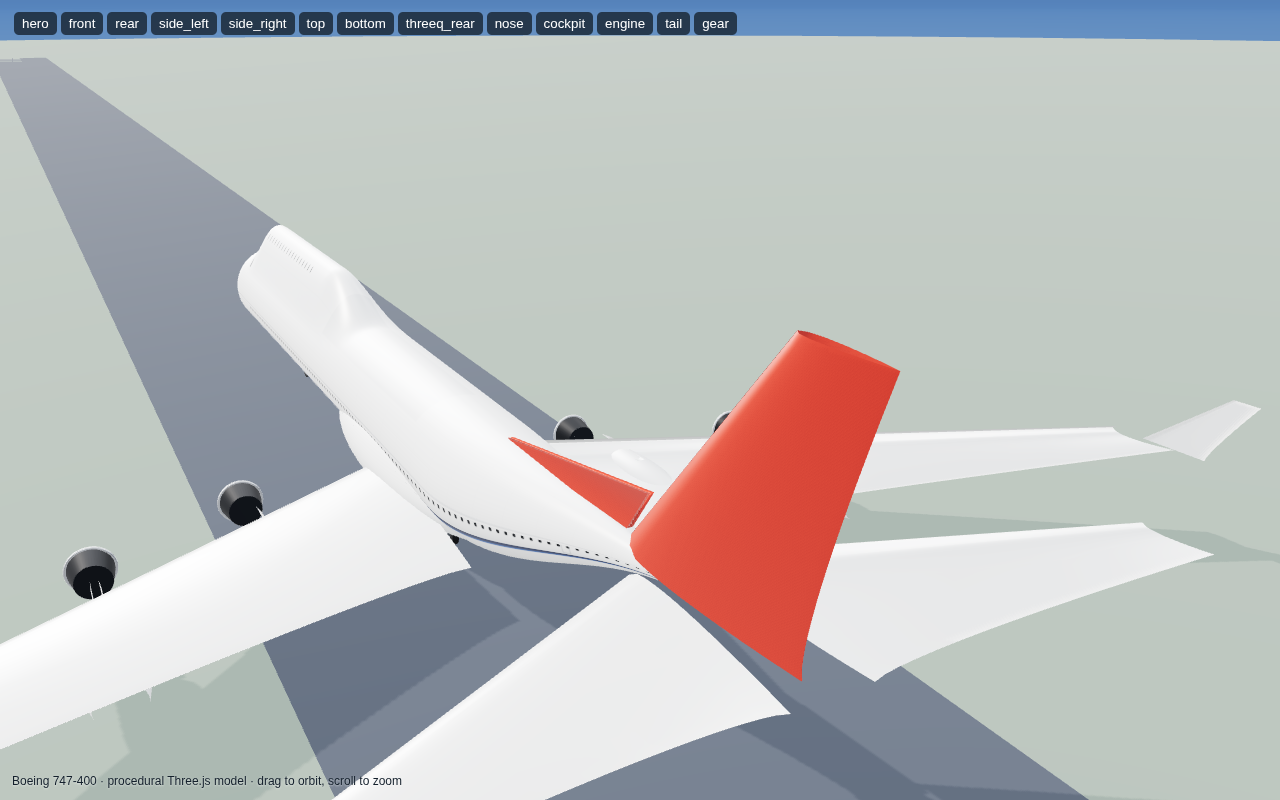
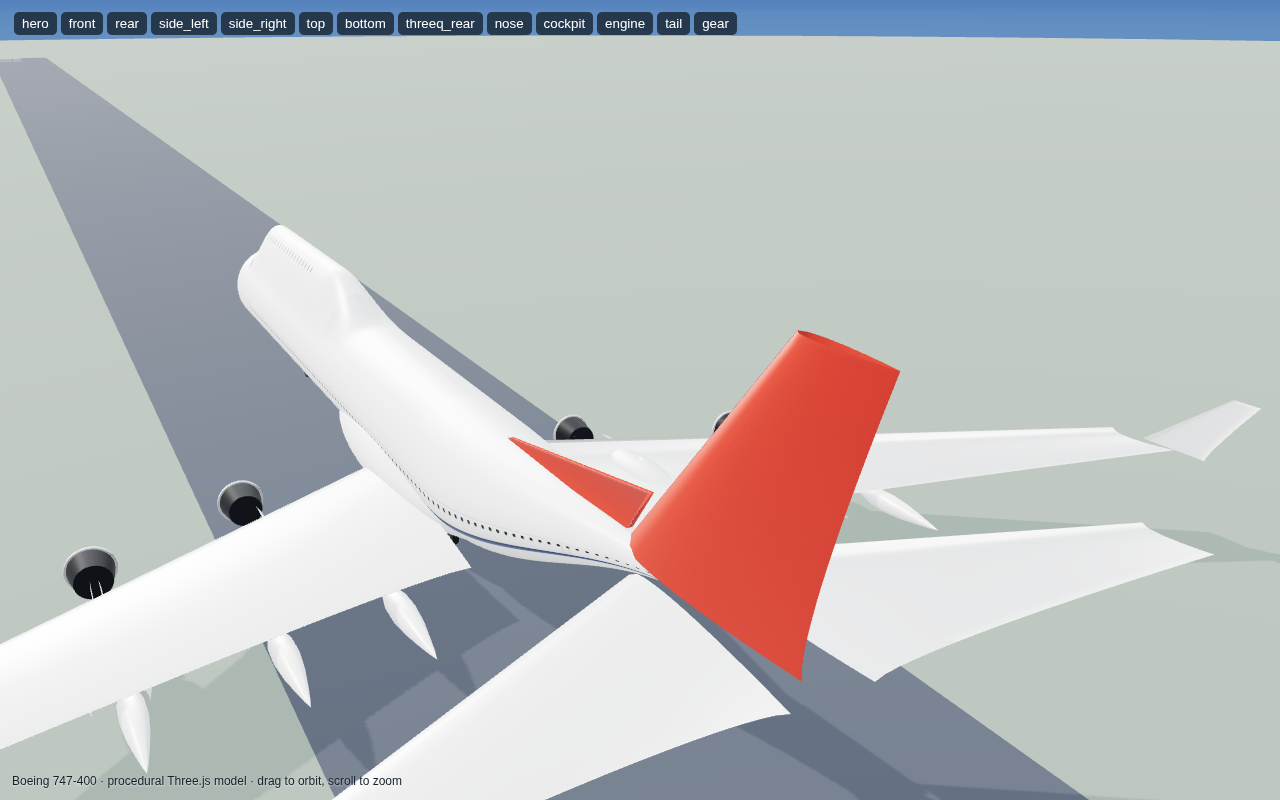
Add flap-track (canoe) fairings under the wing trailing edge
Three streamlined spindle fairings per wing projecting aft of the trailing
edge, the signature 747 flap-track canoes, visible in side/bottom/top/hero
views.

Claude-Session: https://claude.ai/code/session_016wgpqmvvsct3iFp6u1vC3Y

diff --git a/boeing747/aircraft.js b/boeing747/aircraft.js
@@ -294,6 +294,21 @@ function buildPrism(mat, pts, half) {
   return m;
 }
 
+// Flap-track "canoe" fairing — streamlined spindle under the wing trailing edge.
+function buildFlapFairing(mat, { x, y, z, length, radius }) {
+  const prof = [
+    [0.00, 0.00], [0.55, 0.10], [0.95, 0.26], [1.00, 0.42],
+    [0.82, 0.60], [0.5, 0.78], [0.22, 0.92], [0.0, 1.0],
+  ].map(([r, h]) => new THREE.Vector2(r * radius, h * length));
+  const g = new THREE.LatheGeometry(prof, 24);
+  g.rotateX(-Math.PI / 2);          // long axis along +Z (point trails aft to -Z after place)
+  g.translate(0, 0, length * 0.5);
+  const m = new THREE.Mesh(g, mat);
+  m.position.set(x, y, z);
+  m.castShadow = true; m.receiveShadow = true;
+  return m;
+}
+
 // Canted winglet at a wing tip.  tip = {x,y,zLE,chord}
 function buildWinglet(side, tip, mat) {
   const surf = buildSurface({
@@ -497,6 +512,22 @@ export function createBoeing747() {
       chord: wingTipChord,
     };
     root.add(buildWinglet(side, tip, M.wing));
+
+    // Flap-track fairings (canoes) along the trailing edge.
+    for (const f of [0.13, 0.32, 0.52]) {
+      const offset = f * wingSpan;
+      const chord = lerp(14.5, wingTipChord, Math.pow(f, 0.85));
+      const zLE = wingRootZ - offset * Math.tan(sweep);
+      const zTE = zLE - chord;
+      const yd = wingRootY + offset * Math.tan(dih);
+      const L = lerp(7.6, 4.6, f), radius = lerp(0.62, 0.4, f);
+      root.add(buildFlapFairing(M.wing, {
+        x: side * (wingRootX + offset),
+        y: yd - 0.06 * chord - radius * 0.35,
+        z: zTE - 0.15 * L,
+        length: L, radius,
+      }));
+    }
   }
 
   // ---- Engines (4) hung below/forward of wing ----
